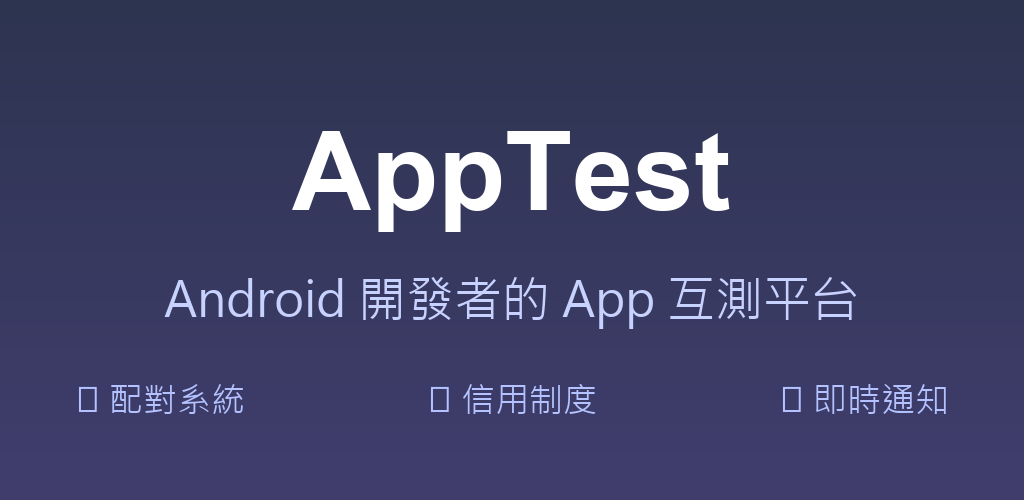
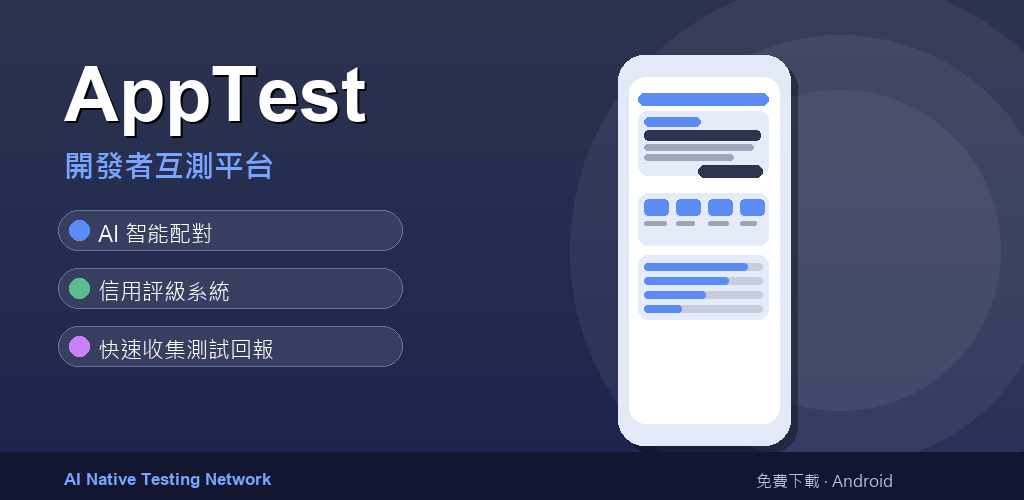
feat(ui): visual design improvements + updated Play Store assets
- HeroMatchCard: 4dp primary color accent strip + full-width 加入 button
- StatsCard: primaryContainer chip backgrounds on stat numbers + tighter spacing
- ReputationBreakdownCard: value/max score format + semantic progress colors (primary/tertiary/error)
- AppProgressBar: optional color param (default Color.Unspecified, backward-compatible)
- icon_512.png / feature_graphic.png: redesigned with gradient, network diagram, CJK font

diff --git a/feature/home/src/main/kotlin/com/apptest/feature/home/ui/components/HeroMatchCard.kt b/feature/home/src/main/kotlin/com/apptest/feature/home/ui/components/HeroMatchCard.kt
@@ -1,13 +1,19 @@
 package com.apptest.feature.home.ui.components
 
+import androidx.compose.foundation.background
 import androidx.compose.foundation.layout.Arrangement
+import androidx.compose.foundation.layout.Box
 import androidx.compose.foundation.layout.Column
 import androidx.compose.foundation.layout.Row
 import androidx.compose.foundation.layout.fillMaxWidth
+import androidx.compose.foundation.layout.height
 import androidx.compose.foundation.layout.padding
 import androidx.compose.material3.MaterialTheme
 import androidx.compose.runtime.Composable
+import androidx.compose.ui.Alignment
 import androidx.compose.ui.Modifier
+import androidx.compose.ui.draw.clip
+import androidx.compose.ui.unit.dp
 import com.apptest.core.designsystem.components.AppText
 import com.apptest.core.designsystem.components.AppVSpacer
 import com.apptest.core.designsystem.spacing.AppSpacing
@@ -18,9 +24,13 @@ import com.apptest.core.ui.components.AppCard
 import com.apptest.feature.home.domain.model.MatchedApp
 
 /**
- * Hero card for the "Today" section — the conversion focal point of the Home screen.
+ * Hero card for the "Today" section -- the conversion focal point of the Home screen.
  * Split out from [com.apptest.feature.home.ui.HomeScreen] for visual / behavioural complexity
  * (description truncation, dual CTA, accent label).
+ *
+ * Visual improvements:
+ * - 4dp primary accent bar at the top edge for immediate brand recognition
+ * - Join button fills remaining row width to maximise tap target
  */
 @Composable
 internal fun HeroMatchCard(
@@ -31,26 +41,56 @@ internal fun HeroMatchCard(
 ) {
     val l = AppL10n.current
     AppCard(modifier = modifier.fillMaxWidth()) {
-        Column(modifier = Modifier.padding(AppSpacing.Md)) {
-            AppText(
-                text = l.home_new_match_label,
-                style = MaterialTheme.typography.labelLarge,
-                color = MaterialTheme.colorScheme.primary,
+        Column {
+            // Accent top bar -- 4dp primary stripe draws eye to the card
+            Box(
+                modifier = Modifier
+                    .fillMaxWidth()
+                    .height(4.dp)
+                    .clip(MaterialTheme.shapes.medium)
+                    .background(MaterialTheme.colorScheme.primary),
             )
-            AppVSpacer(AppSpacing.Xs)
-            AppText("${match.name} · ${match.category}", style = MaterialTheme.typography.titleLarge)
-            AppVSpacer(AppSpacing.Xs)
-            AppText(match.description, style = MaterialTheme.typography.bodyMedium, maxLines = 3)
-            AppVSpacer(AppSpacing.Sm)
-            AppText(
-                text = l.home_testers_needed.format(match.testersNeeded),
-                style = MaterialTheme.typography.labelSmall,
-                color = MaterialTheme.colorScheme.onSurfaceVariant,
-            )
-            AppVSpacer(AppSpacing.Md)
-            Row(horizontalArrangement = Arrangement.spacedBy(AppSpacing.Sm)) {
-                AppButton(text = l.home_cta_skip_match, onClick = onSkip, variant = AppButtonVariant.Text)
-                AppButton(text = l.home_cta_join, onClick = onJoin, variant = AppButtonVariant.Primary)
+            Column(modifier = Modifier.padding(AppSpacing.Md)) {
+                AppText(
+                    text = l.home_new_match_label,
+                    style = MaterialTheme.typography.labelLarge,
+                    color = MaterialTheme.colorScheme.primary,
+                )
+                AppVSpacer(AppSpacing.Xs)
+                AppText(
+                    text = "${match.name} · ${match.category}",
+                    style = MaterialTheme.typography.titleLarge,
+                )
+                AppVSpacer(AppSpacing.Xs)
+                AppText(
+                    text = match.description,
+                    style = MaterialTheme.typography.bodyMedium,
+                    maxLines = 3,
+                )
+                AppVSpacer(AppSpacing.Sm)
+                AppText(
+                    text = l.home_testers_needed.format(match.testersNeeded),
+                    style = MaterialTheme.typography.labelSmall,
+                    color = MaterialTheme.colorScheme.onSurfaceVariant,
+                )
+                AppVSpacer(AppSpacing.Md)
+                Row(
+                    modifier = Modifier.fillMaxWidth(),
+                    verticalAlignment = Alignment.CenterVertically,
+                    horizontalArrangement = Arrangement.spacedBy(AppSpacing.Sm),
+                ) {
+                    AppButton(
+                        text = l.home_cta_skip_match,
+                        onClick = onSkip,
+                        variant = AppButtonVariant.Text,
+                    )
+                    AppButton(
+                        text = l.home_cta_join,
+                        onClick = onJoin,
+                        variant = AppButtonVariant.Primary,
+                        modifier = Modifier.weight(1f),
+                    )
+                }
             }
         }
     }

diff --git a/feature/profile/src/main/kotlin/com/apptest/feature/profile/ui/components/ReputationBreakdownCard.kt b/feature/profile/src/main/kotlin/com/apptest/feature/profile/ui/components/ReputationBreakdownCard.kt
@@ -7,6 +7,7 @@ import androidx.compose.foundation.layout.fillMaxWidth
 import androidx.compose.foundation.layout.padding
 import androidx.compose.material3.MaterialTheme
 import androidx.compose.runtime.Composable
+import androidx.compose.ui.Alignment
 import androidx.compose.ui.Modifier
 import com.apptest.core.designsystem.components.AppText
 import com.apptest.core.designsystem.spacing.AppSpacing
@@ -15,11 +16,22 @@ import com.apptest.core.ui.components.AppCard
 import com.apptest.core.ui.components.AppProgressBar
 import com.apptest.feature.profile.domain.model.ReputationBreakdown
 
+/**
+ * Credit score breakdown card on the Profile screen.
+ *
+ * Visual improvements:
+ * - Score label now shows "value / max" to communicate absolute headroom
+ * - Progress bar color shifts: >=80% primary, 50-79% tertiary (amber), <50% error
+ *   giving instant at-a-glance health signal per category
+ */
 @Composable
 internal fun ReputationBreakdownCard(breakdown: ReputationBreakdown, modifier: Modifier = Modifier) {
     val l = AppL10n.current
     AppCard(modifier = modifier.fillMaxWidth()) {
-        Column(modifier = Modifier.padding(AppSpacing.Md), verticalArrangement = Arrangement.spacedBy(AppSpacing.Sm)) {
+        Column(
+            modifier = Modifier.padding(AppSpacing.Md),
+            verticalArrangement = Arrangement.spacedBy(AppSpacing.Sm),
+        ) {
             AppText(l.profile_breakdown_title, style = MaterialTheme.typography.titleMedium)
             ScoreRow(l.profile_breakdown_completion, breakdown.completionRate, max = 40)
             ScoreRow(l.profile_breakdown_streak, breakdown.streak, max = 20)
@@ -38,16 +50,34 @@ internal fun ReputationBreakdownCard(breakdown: ReputationBreakdown, modifier: M
 
 @Composable
 private fun ScoreRow(label: String, value: Int, max: Int) {
-    Row(modifier = Modifier.fillMaxWidth(), verticalAlignment = androidx.compose.ui.Alignment.CenterVertically) {
-        AppText(text = label, modifier = Modifier.weight(0.4f), style = MaterialTheme.typography.bodyMedium)
+    // Color encodes health: green (>=80%) / amber (50-79%) / red (<50%)
+    val pct = value.toFloat() / max.toFloat()
+    val barColor = when {
+        pct >= 0.8f -> MaterialTheme.colorScheme.primary
+        pct >= 0.5f -> MaterialTheme.colorScheme.tertiary
+        else        -> MaterialTheme.colorScheme.error
+    }
+    Row(
+        modifier = Modifier.fillMaxWidth(),
+        verticalAlignment = Alignment.CenterVertically,
+    ) {
+        AppText(
+            text = label,
+            modifier = Modifier.weight(0.38f),
+            style = MaterialTheme.typography.bodyMedium,
+        )
         AppProgressBar(
-            progress = value.toFloat() / max.toFloat(),
-            modifier = Modifier.weight(0.5f).padding(horizontal = AppSpacing.Sm),
+            progress = pct,
+            color = barColor,
+            modifier = Modifier
+                .weight(0.48f)
+                .padding(horizontal = AppSpacing.Sm),
         )
         AppText(
-            text = "$value",
-            style = MaterialTheme.typography.labelLarge,
-            modifier = Modifier.weight(0.1f),
+            text = "$value / $max",
+            style = MaterialTheme.typography.labelMedium,
+            color = barColor,
+            modifier = Modifier.weight(0.14f),
         )
     }
 }

diff --git a/feature/profile/src/main/kotlin/com/apptest/feature/profile/ui/components/StatsCard.kt b/feature/profile/src/main/kotlin/com/apptest/feature/profile/ui/components/StatsCard.kt
@@ -1,5 +1,6 @@
 package com.apptest.feature.profile.ui.components
 
+import androidx.compose.foundation.background
 import androidx.compose.foundation.layout.Arrangement
 import androidx.compose.foundation.layout.Column
 import androidx.compose.foundation.layout.Row
@@ -15,13 +16,26 @@ import com.apptest.core.designsystem.theme.AppL10n
 import com.apptest.core.ui.components.AppCard
 import com.apptest.feature.profile.domain.model.ProfileStats30d
 
+/**
+ * 30-day stats summary card on the Profile screen.
+ *
+ * Visual improvements:
+ * - Each stat value uses primaryContainer background chip for visual separation
+ * - Value text in primary color (was onSurface) to increase numeric prominence
+ */
 @Composable
 internal fun StatsCard(stats: ProfileStats30d, modifier: Modifier = Modifier) {
     val l = AppL10n.current
     AppCard(modifier = modifier.fillMaxWidth()) {
-        Column(modifier = Modifier.padding(AppSpacing.Md), verticalArrangement = Arrangement.spacedBy(AppSpacing.Sm)) {
+        Column(
+            modifier = Modifier.padding(AppSpacing.Md),
+            verticalArrangement = Arrangement.spacedBy(AppSpacing.Md),
+        ) {
             AppText(l.profile_stats_title, style = MaterialTheme.typography.titleMedium)
-            Row(modifier = Modifier.fillMaxWidth(), horizontalArrangement = Arrangement.SpaceBetween) {
+            Row(
+                modifier = Modifier.fillMaxWidth(),
+                horizontalArrangement = Arrangement.SpaceBetween,
+            ) {
                 Stat(label = l.profile_stats_completed, value = "${stats.completedTests}")
                 Stat(label = l.profile_stats_days, value = "${stats.daysContributed}")
                 Stat(
@@ -36,8 +50,22 @@ internal fun StatsCard(stats: ProfileStats30d, modifier: Modifier = Modifier) {
 
 @Composable
 private fun Stat(label: String, value: String) {
-    Column(horizontalAlignment = Alignment.CenterHorizontally) {
-        AppText(value, style = MaterialTheme.typography.titleLarge)
+    Column(
+        horizontalAlignment = Alignment.CenterHorizontally,
+        verticalArrangement = Arrangement.spacedBy(AppSpacing.Xs),
+    ) {
+        // Chip background gives each number its own visual container
+        AppText(
+            text = value,
+            style = MaterialTheme.typography.titleLarge,
+            color = MaterialTheme.colorScheme.primary,
+            modifier = Modifier
+                .background(
+                    color = MaterialTheme.colorScheme.primaryContainer,
+                    shape = MaterialTheme.shapes.small,
+                )
+                .padding(horizontal = AppSpacing.Sm, vertical = AppSpacing.Xs),
+        )
         AppText(
             text = label,
             style = MaterialTheme.typography.labelSmall,

diff --git a/core/ui/src/main/kotlin/com/apptest/core/ui/components/AppProgressBar.kt b/core/ui/src/main/kotlin/com/apptest/core/ui/components/AppProgressBar.kt
@@ -8,6 +8,7 @@ import androidx.compose.material3.LinearProgressIndicator
 import androidx.compose.material3.MaterialTheme
 import androidx.compose.runtime.Composable
 import androidx.compose.ui.Modifier
+import androidx.compose.ui.graphics.Color
 import androidx.compose.ui.unit.Dp
 import androidx.compose.ui.unit.dp
 import com.apptest.core.designsystem.components.AppText
@@ -17,6 +18,8 @@ import com.apptest.core.designsystem.components.AppText
  * Always determinate; if you need indeterminate use M3 `LinearProgressIndicator()` directly.
  *
  * `progress` is clamped to [0f, 1f] so callers can pass derived values safely.
+ * `color` defaults to [MaterialTheme.colorScheme.primary]; pass an explicit value for
+ * semantic color coding (e.g. amber for mid-range, red for low scores).
  */
 @Composable
 fun AppProgressBar(
@@ -24,7 +27,9 @@ fun AppProgressBar(
     modifier: Modifier = Modifier,
     label: String? = null,
     height: Dp = 8.dp,
+    color: Color = Color.Unspecified,
 ) {
+    val resolvedColor = if (color == Color.Unspecified) MaterialTheme.colorScheme.primary else color
     Column(modifier = modifier) {
         if (label != null) {
             AppText(
@@ -38,6 +43,7 @@ fun AppProgressBar(
             modifier = Modifier
                 .fillMaxWidth()
                 .height(height),
+            color = resolvedColor,
             trackColor = MaterialTheme.colorScheme.surfaceContainerHigh,
         )
     }